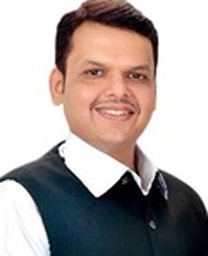
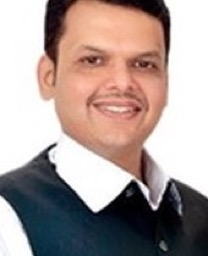
Brand app name, move PM beside title, tier leader photo sizes
- App name rendered as a wordmark: two-tone ("वारी" in gold) with the
  "भक्ती विठोबाची · सेवा आरोग्याची" slogan pill — reads as the app identity
- PM photo moved next to the app name, enlarged, with caption
  "मा. ना. नरेंद्र मोदी · पंतप्रधान, भारत सरकार"
- Size hierarchy: PM 72x86 > CM (देवेंद्र फडणवीस) 62x72 > other leaders 52x56
- Re-cropped CM photo (l1) tighter so his face matches the other leaders
- Bump cache-bust v137 -> v138 (index.html) and SW cache wari2026-v138

diff --git a/index.html b/index.html
@@ -8,15 +8,15 @@
   <title>आरोग्य संपन्न वारी</title>
   <link rel="manifest" href="./manifest.webmanifest" />
   <meta name="theme-color" content="#f27405" />
-  <script>if(/Android|iPhone|iPod|IEMobile|Mobile/i.test(navigator.userAgent)||matchMedia('(max-width:700px)').matches)location.replace('./app.html?v=137');</script>
+  <script>if(/Android|iPhone|iPod|IEMobile|Mobile/i.test(navigator.userAgent)||matchMedia('(max-width:700px)').matches)location.replace('./app.html?v=138');</script>
   <link rel="stylesheet" href="./assets/css/shell.css" />
 </head>
 <body>
-  <iframe class="mobile-frame" src="./app.html?v=137" title="आरोग्य संपन्न वारी" allow="geolocation; clipboard-write; web-share"></iframe>
+  <iframe class="mobile-frame" src="./app.html?v=138" title="आरोग्य संपन्न वारी" allow="geolocation; clipboard-write; web-share"></iframe>
 
   <main class="desktop-shell">
     <section class="phone-wrap">
-      <iframe id="appFrame" src="./app.html?v=137" title="आरोग्य संपन्न वारी मोबाइल UI" allow="geolocation; clipboard-write; web-share"></iframe>
+      <iframe id="appFrame" src="./app.html?v=138" title="आरोग्य संपन्न वारी मोबाइल UI" allow="geolocation; clipboard-write; web-share"></iframe>
     </section>
     <section class="map-wrap">
       <div class="desktop-head">
@@ -29,7 +29,7 @@
         </div>
       </div>
       <!-- Google My Map is intentionally disabled for now. Kept for later reference: https://www.google.com/maps/d/u/0/embed?mid=1151dFIqz_htDjnDRMRnDqnJQE9JW3VQ -->
-      <iframe id="osmFrame" class="map-frame" src="./map.html?v=137" title="आरोग्य संपन्न वारी मदत नकाशा" allow="geolocation; clipboard-write; web-share" loading="lazy"></iframe>
+      <iframe id="osmFrame" class="map-frame" src="./map.html?v=138" title="आरोग्य संपन्न वारी मदत नकाशा" allow="geolocation; clipboard-write; web-share" loading="lazy"></iframe>
     </section>
   </main>
   <script src="./assets/js/shell.js"></script>

diff --git a/wari-dignitaries.js b/wari-dignitaries.js
@@ -20,8 +20,12 @@ window.WARI_SECRETARIES=[
       return '<div class="offcard"><b>'+o.n+'</b><small>'+o.d.replace(/, महाराष्ट्र (शासन|राज्य)/,'<br>महाराष्ट्र $1')+'</small></div>';
     }).join('');
     var el=document.getElementById('leaders-strip'); if(!el) return;
-    el.innerHTML=window.WARI_DIGNITARIES.map(function(o){
-      return '<div class="ldr"><img src="'+o.img+'" alt="'+o.n+'" loading="lazy"/><div><b>'+o.n+'</b><small>'+o.d.replace(/, महाराष्ट्र (शासन|राज्य)/,'<br>महाराष्ट्र $1')+'</small></div></div>';
+    el.innerHTML=window.WARI_DIGNITARIES.map(function(o,i){
+      var cm=i===0; // Chief Minister — emphasised: larger than peers, smaller than PM
+      var imgS=cm?' style="max-width:62px;width:62px;height:72px"':'';
+      var nmS=cm?' style="font-size:11px"':'';
+      var dsS=cm?' style="font-size:9.5px"':'';
+      return '<div class="ldr'+(cm?' ldr-cm':'')+'"><img'+imgS+' src="'+o.img+'" alt="'+o.n+'" loading="lazy"/><div><b'+nmS+'>'+o.n+'</b><small'+dsS+'>'+o.d.replace(/, महाराष्ट्र (शासन|राज्य)/,'<br>महाराष्ट्र $1')+'</small></div></div>';
     }).join('');
   }
   if(document.readyState!=='loading') render(); else document.addEventListener('DOMContentLoaded', render);

diff --git a/app.html b/app.html
@@ -13,7 +13,7 @@
 </head>
 <body>
   <div class="page map-open" id="page">
-    <header class="hero"><div class="top"><span id="clock">--:--</span><span>ऑफलाइन डेटा तयार ▭</span></div><div class="brand2"><img class="bd" src="./assets/img/brand-deity-full.png?v=126" alt="चरण सेवा"/></div><h1>आरोग्य संपन्न वारी</h1><div id="pm-strip" style="display:flex;align-items:center;gap:9px;justify-content:center;background:rgba(255,255,255,.96);border-radius:10px;padding:5px 12px;margin:8px 0 2px"><img src="./assets/img/leaders/pm-modi.jpg?v=137" alt="मा. ना. नरेंद्र मोदी" loading="lazy" style="width:44px;height:52px;object-fit:cover;object-position:top;border-radius:7px;flex:none"/><div style="text-align:left;min-width:0"><b style="display:block;font-size:10.5px;line-height:1.25;color:#5a3208">मा. ना. नरेंद्र मोदी</b><small style="display:block;font-size:9px;line-height:1.2;color:#8a6a45">पंतप्रधान, भारत सरकार</small></div></div><div class="leaders" id="leaders-strip"></div><div class="secretaries" id="secretaries-strip"></div><p>श्री संत ज्ञानेश्वर महाराज आणि जगद्गुरू श्री संत तुकाराम महाराज पालख्यांसाठी जवळची मदत.</p><div class="tabs"><button class="tab active" data-p="all" onclick="setPalkhi('all')">दोन्ही</button><button class="tab" data-p="dnyaneshwar" onclick="setPalkhi('dnyaneshwar')">श्री संत ज्ञानेश्वर महाराज</button><button class="tab" data-p="tukaram" onclick="setPalkhi('tukaram')">जगद्गुरू श्री संत तुकाराम महाराज</button></div></header>
+    <header class="hero"><div class="top"><span id="clock">--:--</span><span>ऑफलाइन डेटा तयार ▭</span></div><div class="brand2"><img class="bd" src="./assets/img/brand-deity-full.png?v=126" alt="चरण सेवा"/></div><div style="display:flex;align-items:center;gap:12px;margin:0 0 7px"><div style="flex:1;min-width:0"><h1 style="margin:0;font-size:34px;line-height:1.02;letter-spacing:.3px;text-shadow:0 2px 7px rgba(120,40,0,.28)">आरोग्य संपन्न <span style="color:#ffd24d">वारी</span></h1><div style="display:inline-block;margin-top:5px;background:rgba(255,255,255,.16);border:1px solid rgba(255,255,255,.35);border-radius:999px;padding:2px 10px;font-size:10px;font-weight:900;letter-spacing:.5px;color:#fff">भक्ती विठोबाची · सेवा आरोग्याची</div></div><div style="flex:none;text-align:center"><img src="./assets/img/leaders/pm-modi.jpg?v=138" alt="मा. ना. नरेंद्र मोदी, पंतप्रधान, भारत सरकार" loading="lazy" style="width:72px;height:86px;object-fit:cover;object-position:top;border-radius:10px;border:2px solid #ffffff;box-shadow:0 3px 10px rgba(0,0,0,.22);display:block"/><div style="font-size:9px;font-weight:900;color:#fff;line-height:1.2;margin-top:3px">मा. ना. नरेंद्र मोदी<br><span style="font-weight:800;opacity:.92">पंतप्रधान, भारत सरकार</span></div></div></div><div class="leaders" id="leaders-strip"></div><div class="secretaries" id="secretaries-strip"></div><p>श्री संत ज्ञानेश्वर महाराज आणि जगद्गुरू श्री संत तुकाराम महाराज पालख्यांसाठी जवळची मदत.</p><div class="tabs"><button class="tab active" data-p="all" onclick="setPalkhi('all')">दोन्ही</button><button class="tab" data-p="dnyaneshwar" onclick="setPalkhi('dnyaneshwar')">श्री संत ज्ञानेश्वर महाराज</button><button class="tab" data-p="tukaram" onclick="setPalkhi('tukaram')">जगद्गुरू श्री संत तुकाराम महाराज</button></div></header>
     <section class="sec"><p class="k">तातडीची मदत · EMERGENCY</p><div class="em"><a class="red" href="tel:108"><span>🚑</span><span class="num">108</span><span>रुग्णवाहिका</span><span class="callhint">📞 फोन करण्यासाठी दाबा</span></a><a class="dark" href="tel:112"><span>🛡️</span><span class="num">112</span><span>आपत्कालीन</span><span class="callhint">📞 फोन करण्यासाठी दाबा</span></a></div><a class="weather" id="wxCard" href="https://www.accuweather.com/en/in/pune/204848/weather-forecast/204848" target="_blank" rel="noopener noreferrer" style="display:flex;align-items:center;gap:10px;width:100%;margin-top:12px;border-radius:15px;background:linear-gradient(135deg,#2f8fcf,#1f5f96);color:#fff;padding:9px 13px;font-weight:900;text-decoration:none"><i id="wxIcon" style="font-style:normal;font-size:23px;flex:0 0 auto">🌧️</i><b id="wxTemp" style="font-size:19px;flex:0 0 auto">—</b><span style="flex:1;min-width:0;font-size:12px;font-weight:800;line-height:1.25;overflow:hidden;text-overflow:ellipsis;white-space:nowrap"><span id="wxPlace">पुणे</span> · <span id="wxCond">पाहत आहोत…</span> · ☔ <span id="wxRain">—</span></span><span style="flex:0 0 auto;font-size:9px;opacity:.85;font-weight:800;text-align:right;line-height:1.3">विस्तृत अंदाज ↗<br>स्रोत: Open-Meteo</span></a><details class="helpline" id="helpline"><summary><span class="circle">☎️</span><span><b>इतर आरोग्य हेल्पलाईन</b><small>आरोग्य, महिला-बाल, मानसिक आरोग्य, आपत्ती मदत</small></span><span class="arrow">⌄</span></summary><div class="helpline-body"><div class="hrow"><div class="hname">आरोग्य सल्ला / तक्रार / रक्त उपलब्धता / मानसिक आरोग्य</div><div class="hnum"><a class="redcall" href="tel:104">104</a></div></div><div class="hrow"><div class="hname">जननी शिशु सुरक्षा कार्यक्रम</div><div class="hnum"><a href="tel:102">102</a></div></div><div class="hrow"><div class="hname">महात्मा ज्योतिबा फुले जन आरोग्य योजना</div><div class="hnum"><a href="tel:155388">155388</a><a href="tel:18002332200">1800 233 2200</a></div></div><div class="hrow"><div class="hname">आपत्ती व्यवस्थापन</div><div class="hnum"><a class="redcall" href="tel:1077">1077</a></div></div></div></details><details class="helpline" id="adminbox"><summary><span class="circle">🏛</span><span><b>प्रशासन संपर्क</b><small>महसूल व सामान्य प्रशासन · तालुका अधिकारी</small></span><span class="arrow">⌄</span></summary><div class="helpline-body" id="admin-body"></div></details><details class="helpline" id="healthbox"><summary><span class="circle">🩺</span><span><b>आरोग्य अधिकारी संपर्क</b><small>जिल्हा आरोग्य अधिकारी · आरोग्य पथक · राज्यस्तरीय</small></span><span class="arrow">⌄</span></summary><div class="helpline-body" id="health-body"></div></details><details class="helpline" id="police"><summary><span class="circle">🚔</span><span><b>पोलीस संपर्क</b><small>पालखी मार्ग ड्युटी · ४४ पोलीस स्टेशन · ८७ अधिकारी</small></span><span class="arrow">⌄</span></summary><div class="helpline-body" id="police-body"></div></details><button class="near" onclick="locateMe()"><i>📍</i><span><b>माझ्या जवळ मदत शोधा</b><span>Find help nearest to me</span></span></button></section>
     <section class="sec"><p class="k">कशाची गरज आहे? · CHOOSE HELP</p><div class="grid"><button class="help" data-cat="ambulance" onclick="chooseHelp('ambulance')"><div class="hi hred">🚑</div><div class="ht">रुग्णवाहिका</div><div class="hs">Ambulance</div><div id="countAmb" class="pill">0</div></button><button class="help" data-cat="doc" onclick="chooseHelp('doc')"><div class="hi hgreen">🩺</div><div class="ht">डॉक्टर / दवाखाना</div><div class="hs">Doctor / hospital</div><div id="countDoc" class="pill">0</div></button><button class="help" data-cat="water" onclick="chooseHelp('water')"><div class="hi hblue">💧</div><div class="ht">पाणी</div><div class="hs">Water</div><div id="countWater" class="pill">0</div></button><button class="help" data-cat="toilet" onclick="chooseHelp('toilet')"><div class="hi hgreen">🚻</div><div class="ht">शौचालये</div><div class="hs">Toilets</div><div id="countToilet" class="pill">0</div></button><button class="help" data-cat="charanseva" onclick="chooseHelp('charanseva')" style="grid-column:1/-1"><div class="hi hamb">🙏</div><div class="ht">चरणसेवा</div><div class="hs">Charanseva</div><div id="countCharanseva" class="pill">0</div></button><button class="help" data-cat="hirkani" onclick="chooseHelp('hirkani')"><div class="hi hpink">🤱</div><div class="ht">हिरकणी कक्ष</div><div class="hs">Mother &amp; child</div><div id="countHirkani" class="pill">0</div></button><button class="help" data-cat="halt" onclick="chooseHelp('halt')"><div class="hi hamb">⛺</div><div class="ht">मुक्काम / विसावा</div><div class="hs">Mukkam</div><div id="countHalt" class="pill">0</div></button></div><button class="showmap" onclick="openMapPanel()"><i>🗺</i><span><b>नकाशा दाखवा</b><span>रुग्णवाहिका, डॉक्टर, रुग्णालय, मुक्काम markers</span></span></button></section>
     <section class="sec mkwrap"><p class="k">मुक्कामानुसार पहा · BY MUKKAM</p><div class="mkstrip" id="mukkams"></div></section><div class="toolbar"><input id="search" class="search" placeholder="ठिकाण, डॉक्टर, वाहन क्रमांक शोधा…" oninput="refresh()"><div class="chips" id="rads"><button class="chip" data-r="100" onclick="setRadius(100)">१०० मी.</button><button class="chip" data-r="200" onclick="setRadius(200)">२०० मी.</button><button class="chip" data-r="300" onclick="setRadius(300)">३०० मी.</button><button class="chip active" data-r="500" onclick="setRadius(500)">५०० मी.</button><button class="chip" data-r="1000" onclick="setRadius(1000)">१ किमी</button><button class="chip" data-r="99999999" onclick="setRadius(99999999)">सर्व</button></div></div>

diff --git a/sw.js b/sw.js
@@ -1,4 +1,4 @@
-const CACHE_VERSION = 'wari2026-v137';
+const CACHE_VERSION = 'wari2026-v138';
 const APP_SHELL = [
   './',
   './index.html',